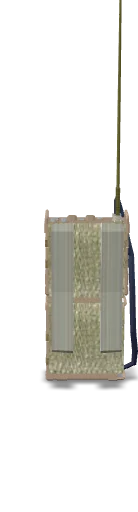
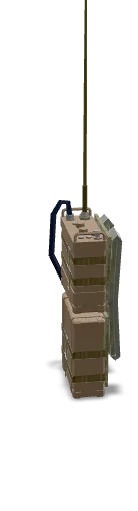
Update files to new versions

Changed region(s): [[0.3188, 0.0, 1.0, 0.7926]]

diff --git a/styles.css b/styles.css
@@ -19,66 +19,6 @@ model-viewer {
   background-color: #ffffff;
 }
 
-.Hotspot {
-  background: #fff;
-  border-radius: 32px;
-  border: 0;
-  box-shadow: 0 2px 4px rgba(0, 0, 0, 0.25);
-  box-sizing: border-box;
-  cursor: pointer;
-  height: 24px;
-  padding: 8px;
-  position: relative;
-  transition: opacity 0.3s;
-  width: 24px;
-}
-
-.Hotspot:not([data-visible]) {
-  background: transparent;
-  border: 4px solid #fff;
-  box-shadow: none;
-  height: 32px;
-  pointer-events: none;
-  width: 32px;
-}
-
-.Hotspot:focus {
-  border: 4px solid rgb(0, 128, 200);
-  height: 32px;
-  outline: none;
-  width: 32px;
-}
-
-.Hotspot > * {
-  opacity: 1;
-  transform: translateY(-50%);
-}
-
-.HotspotAnnotation{
-  background: #fff;
-  border-radius: 4px;
-  box-shadow: 0 2px 4px rgba(0, 0, 0, 0.25);
-  color: rgba(0, 0, 0, 0.8);
-  display: block;
-  font-family: Futura, Helvetica Neue, sans-serif;
-  font-size: 18px;
-  font-weight: 700;
-  left: calc(100% + 1em);
-  max-width: 128px;
-  overflow-wrap: break-word;
-  padding: 0.5em 1em;
-  position: absolute;
-  top: 50%;
-  width: max-content;
-}
-
-.Hotspot:not([data-visible]) > * {
-  opacity: 0;
-  pointer-events: none;
-  transform: translateY(calc(-50% + 4px));
-  transition: transform 0.3s, opacity 0.3s;
-}
-
 
 .progress-bar {
   display: block;
@@ -140,30 +80,4 @@ model-viewer {
 
 #ar-button:focus-visible {
   outline: 1px solid #4285f4;
-}
-
-@keyframes circle {
-  from { transform: translateX(-50%) rotate(0deg) translateX(50px) rotate(0deg); }
-  to   { transform: translateX(-50%) rotate(360deg) translateX(50px) rotate(-360deg); }
-}
-
-@keyframes elongate {
-  from { transform: translateX(100px); }
-  to   { transform: translateX(-100px); }
-}
-
-model-viewer > #ar-prompt {
-  position: absolute;
-  left: 50%;
-  bottom: 60px;
-  animation: elongate 2s infinite ease-in-out alternate;
-  display: none;
-}
-
-model-viewer[ar-status="session-started"] > #ar-prompt {
-  display: block;
-}
-
-model-viewer > #ar-prompt > img {
-  animation: circle 4s linear infinite;
 }

diff --git a/index.html b/index.html
@@ -9,21 +9,13 @@
   </head>
   <body>
     <!-- <model-viewer> HTML element -->
-    <model-viewer src="manpack.glb" ar ar-modes="webxr scene-viewer quick-look" camera-controls tone-mapping="commerce" poster="poster.webp" shadow-intensity="1">
-      <button class="Hotspot" slot="hotspot-1" data-position="-0.017979631986764874m 0.54500018219354m -0.006923607878036416m" data-normal="0m 0.9999999999999868m -1.629206789477422e-7m" data-visibility-attribute="visible">
-          <div class="HotspotAnnotation">Button 01</div>
-      </button><button class="Hotspot" slot="hotspot-2" data-position="-0.0583797657541008m 0.40569740534763427m -0.05073741943250537m" data-normal="-0.03649383931242426m -1.7281952476443207e-7m -0.9993338779868364m" data-visibility-attribute="visible">
-          <div class="HotspotAnnotation">Button 02</div>
-      </button>
+    <model-viewer src="manpack.glb" ar ar-modes="webxr scene-viewer quick-look" camera-controls poster="poster.webp" shadow-intensity="1" environment-image="legacy" tone-mapping="commerce" camera-orbit="-135.1deg 70.44deg 3.229m" field-of-view="30deg" auto-rotate>
       <div class="progress-bar hide" slot="progress-bar">
           <div class="update-bar"></div>
       </div>
       <button slot="ar-button" id="ar-button">
           View in your space
       </button>
-      <div id="ar-prompt">
-          <img src="ar_hand_prompt.png">
-      </div>
     </model-viewer>  
     <script src="script.js"></script>
     <!-- Loads <model-viewer> for browsers: -->
